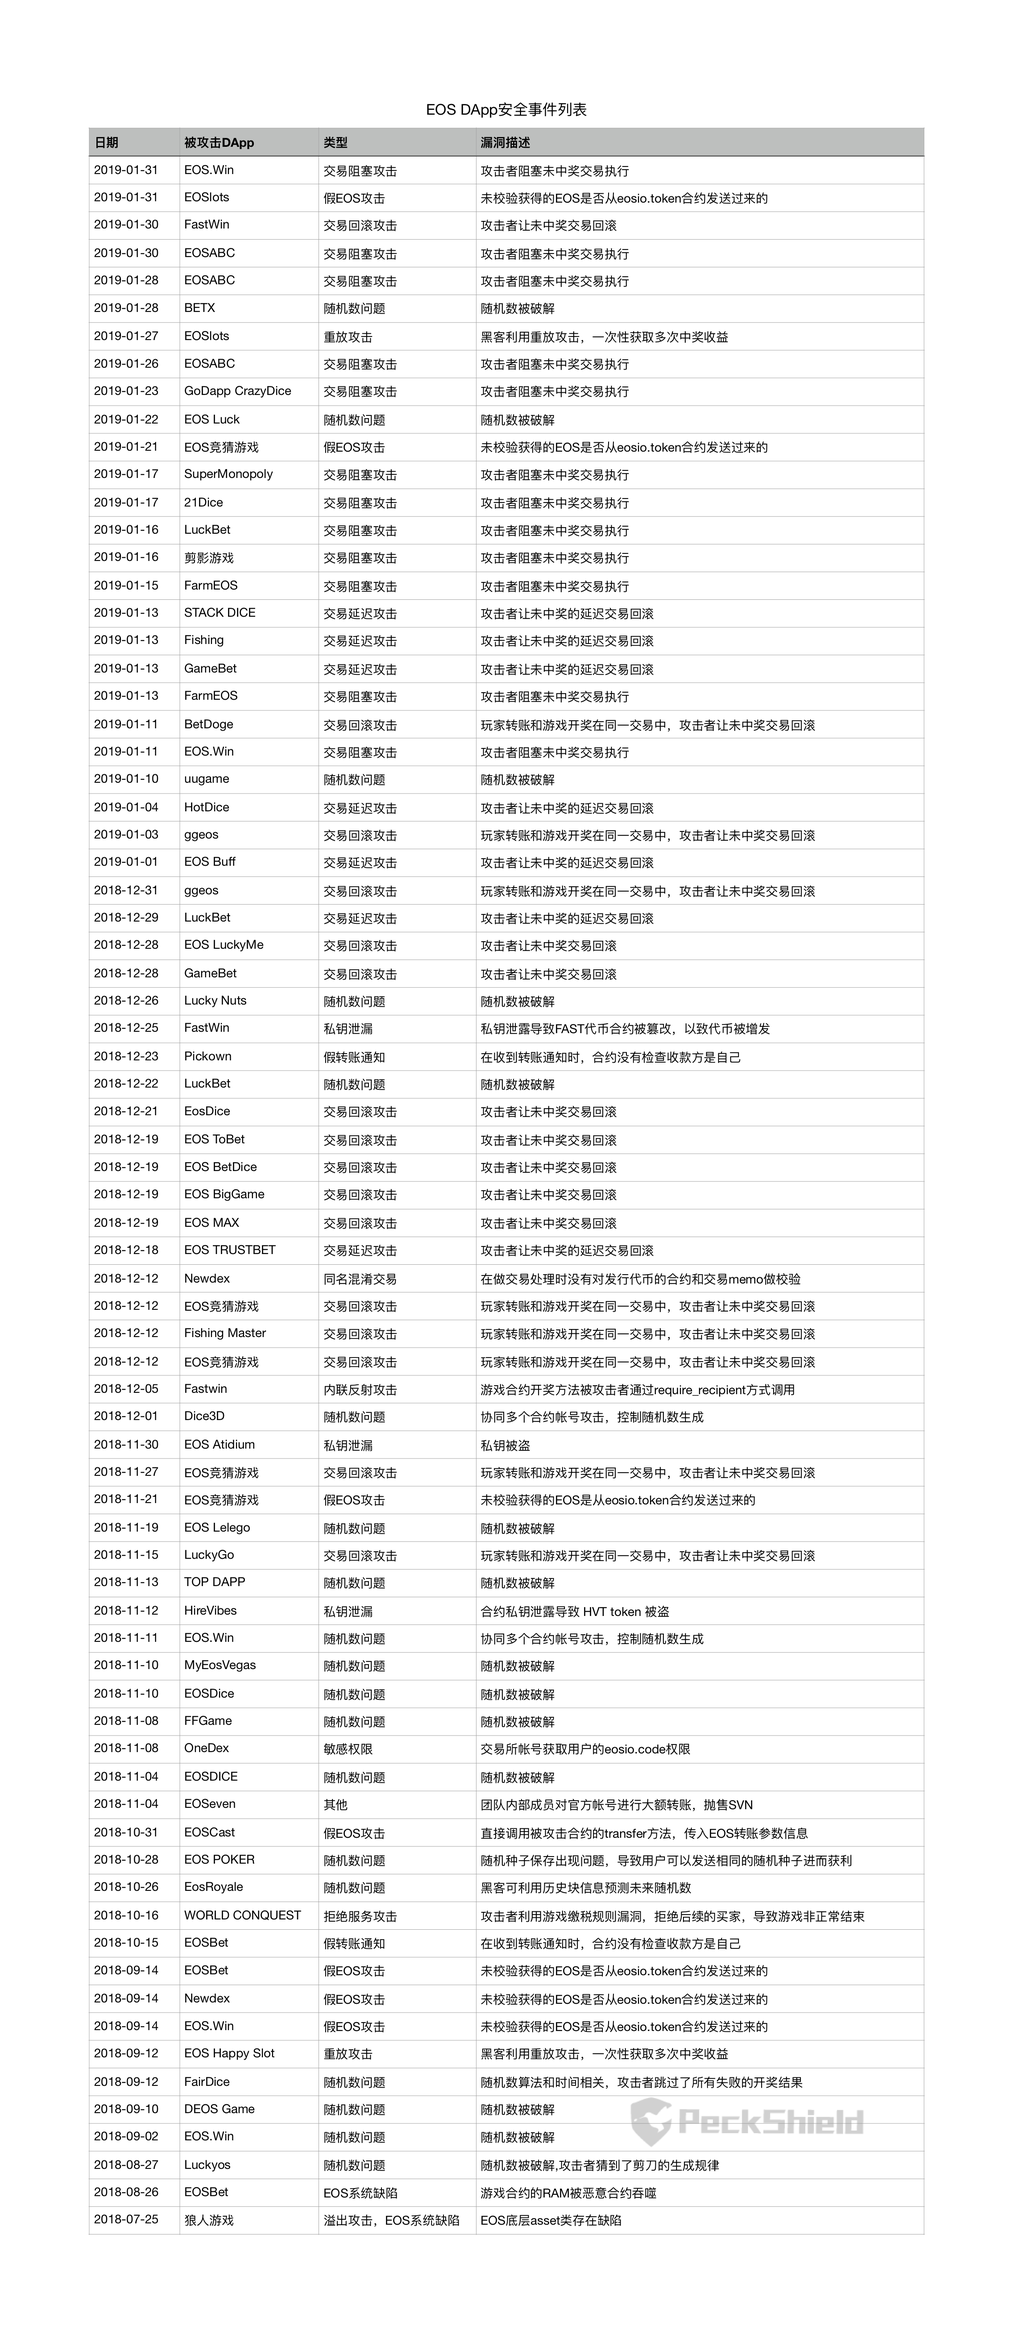
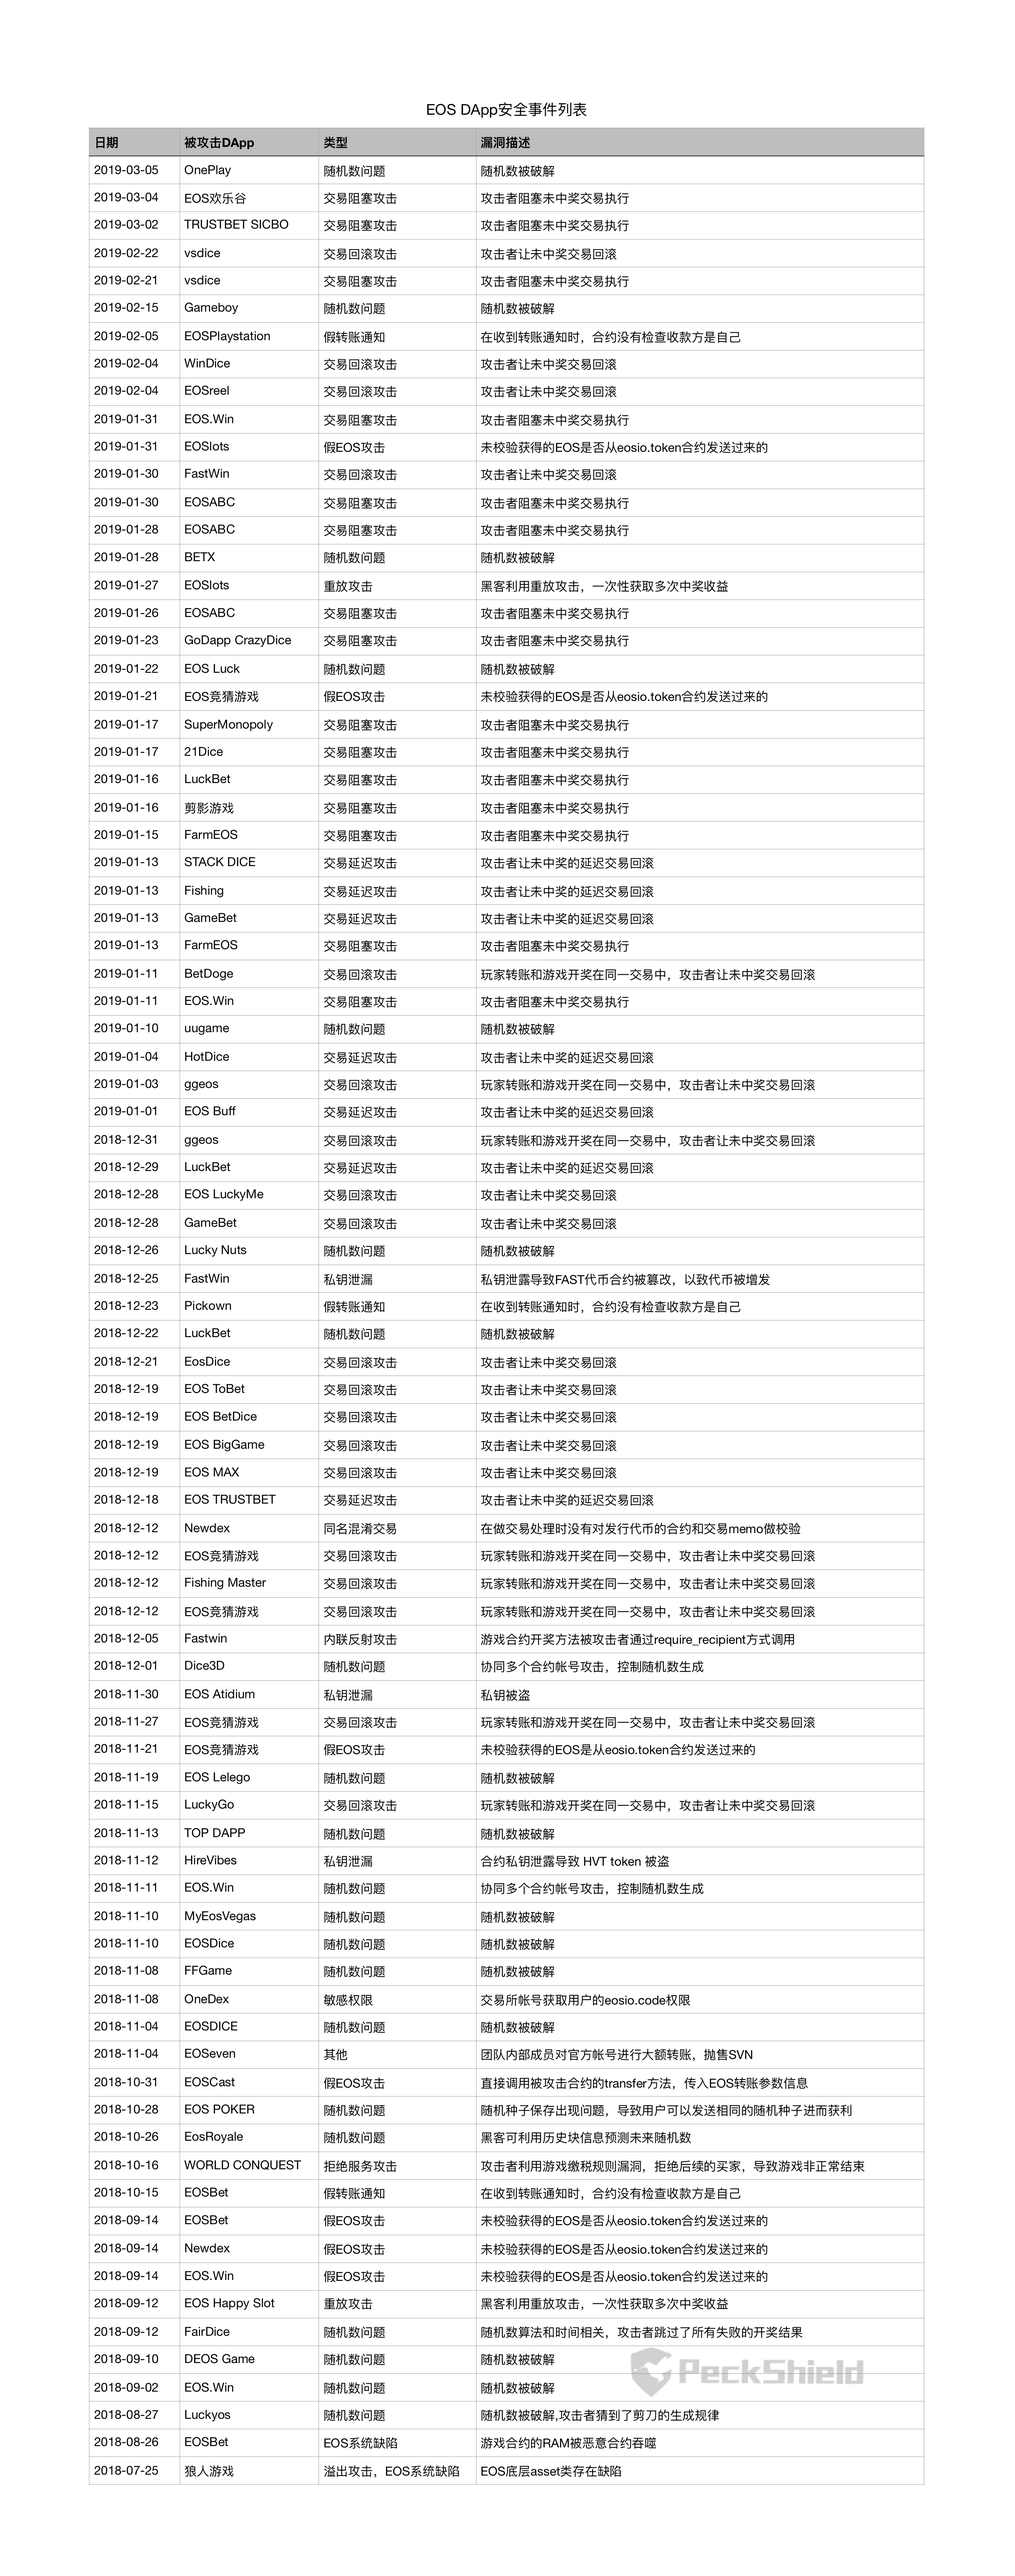
upate 2019-03-05

Changed region(s): [[0.0936, 0.0311, 0.9051, 0.9635], [0.6866, 0.3108, 0.8114, 0.4041], [0.749, 0.6838, 0.7802, 0.7149]]

diff --git a/known_dapp_attacks/README.md b/known_dapp_attacks/README.md
@@ -3,14 +3,18 @@
 本文档根据发生的EOS DApp安全事件不定期更新，旨在记录EOS主网上线以来发生的各类DApp安全事件，供大家参考，同时欢迎大家对该文档提出建议及指正，以完善文档，一起促进EOS的生态健康发展。
 
 ## 概要
-截至2019年01月31日，共发生75起DApp安全事件，共损超过78万个EOS
-![EOS DApp安全事件列表](dapp_attacks_summary.png)
+截至2019年03月05日，共发生84起DApp安全事件，共损近82万个EOS
+![EOS DApp安全事件概要](dapp_attacks_summary.jgp)
 
 ## EOS DApp安全事件列表
-截至2019年01月31日的安全事件列表：
+截至2019年03月05日的安全事件列表：
 ![EOS DApp安全事件列表](eos_dapp_attacks.png)
 
 ## EOS DApp安全事件历史版本
+[EOS DApp安全事件_2019-03-01](https://github.com/peckshield/EOS/blob/master/known_dapp_attacks/eos_dapp_attacks/eos_know_dapp_attacks_2019_03_01.md)
+
+[EOS DApp安全事件_2019-02-01](https://github.com/peckshield/EOS/blob/master/known_dapp_attacks/eos_dapp_attacks/eos_know_dapp_attacks_2019_02_01.md)
+
 [EOS DApp安全事件_2019-01-01](https://github.com/peckshield/EOS/blob/master/known_dapp_attacks/eos_dapp_attacks/eos_know_dapp_attacks_2019_01_01.md)
 
 [EOS DApp安全事件_2018-12-01](https://github.com/peckshield/EOS/blob/master/known_dapp_attacks/eos_dapp_attacks/eos_know_dapp_attacks_2018_12_01.md)

diff --git a/known_dapp_attacks/eos_dapp_attacks/eos_know_dapp_attacks_2019_02_01.md b/known_dapp_attacks/eos_dapp_attacks/eos_know_dapp_attacks_2019_02_01.md
@@ -1,0 +1,11 @@
+# EOS DApp安全事件
+
+本文档每月初更新，旨在记录EOS主网上线以来发生的各类DApp安全事件，供大家参考，同时欢迎大家对该文档提出建议及指正，以完善文档，一起促进EOS的生态健康发展。
+
+## 概要
+截至2019年01月31日，共发生超过75起DApp安全事件，共损失超过78万个EOS
+<div align=center><img src="https://github.com/peckshield/EOS/blob/master/known_dapp_attacks/dapp_attacks_summary/dapp_attacks_summary_2019-02-01.jgp" alt="DApp安全事件数"/></div>
+
+## EOS DApp安全事件列表
+截至2019年01月31日的安全事件列表：
+![EOS DApp安全事件列表](eos_dapp_attacks_2019_02_01.png)

diff --git a/known_dapp_attacks/eos_dapp_attacks/eos_know_dapp_attacks_2019_03_01.md b/known_dapp_attacks/eos_dapp_attacks/eos_know_dapp_attacks_2019_03_01.md
@@ -1,0 +1,11 @@
+# EOS DApp安全事件
+
+本文档每月初更新，旨在记录EOS主网上线以来发生的各类DApp安全事件，供大家参考，同时欢迎大家对该文档提出建议及指正，以完善文档，一起促进EOS的生态健康发展。
+
+## 概要
+截至2019年02月28日，共发生超过81起DApp安全事件，共损失超过81万个EOS
+<div align=center><img src="https://github.com/peckshield/EOS/blob/master/known_dapp_attacks/dapp_attacks_summary/dapp_attacks_summary_2019-03-01.jgp" alt="DApp安全事件数"/></div>
+
+## EOS DApp安全事件列表
+截至2019年02月28日的安全事件列表：
+![EOS DApp安全事件列表](eos_dapp_attacks_2019_03_01.png)
